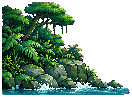
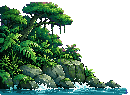
Arte: laterais e cantos dos 7 mapas sem a margem de 2 px na borda; nota dos avatares (m25.4)
Claude-Session: https://claude.ai/code/session_018vDSJfY6f5Jnz8zokVLaT1

diff --git a/docs/CHANGELOG.md b/docs/CHANGELOG.md
@@ -3,6 +3,18 @@
 As versões seguem `docs/VERSIONAMENTO.md`. As versões de cada componente ficam em `version.json` na
 raiz do repositório, que o servidor serve em `GET /api/dev/version`.
 
+## [0.2.0-m25.4] — 20/10/2026
+
+Acabamento da arte pixel. Nenhuma regra, número ou save mudou. Visual só fica verificado quando o proprietário apertar
+Play.
+
+### Corrigido
+
+- Laterais e cantos (`near_*`, `fg_*`) dos outros 7 mapas: a margem transparente de 2 px saiu do lado que encosta na
+  beira da tela e da base, como já era nos 3 mapas da 3ª entrega. Evita uma fresta na borda da tela (TD-065).
+- A nota dos avatares em `config/progression.json` apontava para `Resources/Arte/Avatares`, que não existe mais; agora
+  aponta para `Resources/ArtePixel/Avatares`.
+
 ## [0.2.0-m25.3] — 20/10/2026
 
 As 11 imagens que faltavam (3ª entrega, um desenho por imagem): 339 de 339 em pixel. Nenhuma regra, número ou save

diff --git a/docs/DECISOES.md b/docs/DECISOES.md
@@ -1604,5 +1604,5 @@ lista `tools/Arte/pixel_provisorios.txt`, que só serviam a essas peças; `fonte
 `vivos` ainda parte dele. Como cada peça de cenário veio numa imagem sozinha, o `pixel_folhas.py` ganhou `--escala`
 (escala fixa, a mesma nas duas peças do par `near_*` ou `fg_*` de um mapa, igual à escala por linha que a folha 2×2
 dava) e `--encostar` (lados retos sem a margem transparente de 2 px, para não abrir fresta na borda da tela). Os
-cantos aprovados do Lago Sereno perderam só essa margem nos lados da borda; os outros 7 mapas ainda têm a margem de 2 px
-(fica para o Play dizer se aparece).
+cantos aprovados do Lago Sereno perderam só essa margem nos lados da borda; nos outros 7 mapas a mesma margem foi aparada
+direto nos PNGs (lado da borda e base de `near_*` e `fg_*`, 20/10/2026), então nenhum mapa tem mais fresta de 2 px.
